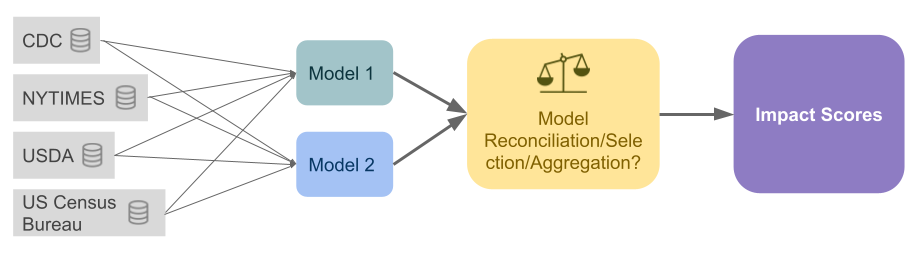
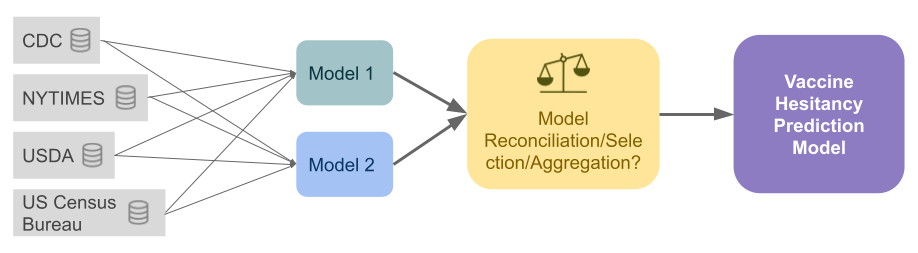
Updating README diagram and text

Changed region(s): [[0.8235, 0.3874, 0.976, 0.5257], [0.854, 0.2767, 0.9455, 0.3597], [0.854, 0.5534, 0.9455, 0.6087]]

diff --git a/README.md b/README.md
@@ -1,12 +1,7 @@
 # Supporting Pandemic Recovery: Building insights on vaccine hesitancy in the communities hardest hit by COVID-19
 
 ## Authors
-- Jesse Shanahan (Lead)
-- Christopher Villafuerte
-- Casey Kalman (Writer)
-- Troyana Brown
-- Jongchan Kim
-- Vikram Chhatre (Sys Admin)
+Jesse Shanahan (Lead) | Christopher Villafuerte | Casey Kalman (Writer) | Troyana Brown | Jongchan Kim |Vikram Chhatre (Sys Admin)
 
 ## Inequitable Impacts
 In early 2020, the COVID-19 pandemic traveled quickly and swiftly, infecting individuals throughout the world without consideration for borders, race, or socioeconomic status; however, throughout the pandemic it has become clear that the virus has not affected all individuals equally. Particularly in the US, grave health disparities have been highlighted but the pandemic with low-income communities and communities of color often experiencing higher rates of severe symptoms, hospitalization, and death due to the disease. Furthermore, we have also seen gaps in vaccine accessibility and demographic patterns in vaccine hesitancy. 
@@ -15,7 +10,12 @@ In early 2020, the COVID-19 pandemic traveled quickly and swiftly, infecting ind
 Our research will investigate and compare social determinants of COVID-19 severity across communities in the United States with predictors of vaccine hesitancy. Our approach will utilize machine learning models to predict likelihood of vaccine hesitancy and likelihood of COVID-19 severity. Then, we will extract feature importance from the most successful models to determine the factors most likely to be correlated with both COVID infection rates, and vaccine hesitancy. Finally, we will compare these findings in an interactive dashboard, using data visualization methods such as choropleths or heat maps.
 
 ![Workflow Diagram](/images/workflowDiagram.png)
-Format: ![Alt Text](url)
+
+## How to use this predictive model
+
+## Limitations
+
+## Future Iterations and Applications
 
 ## Tools used
 - RStudio (R-4.1.0)
